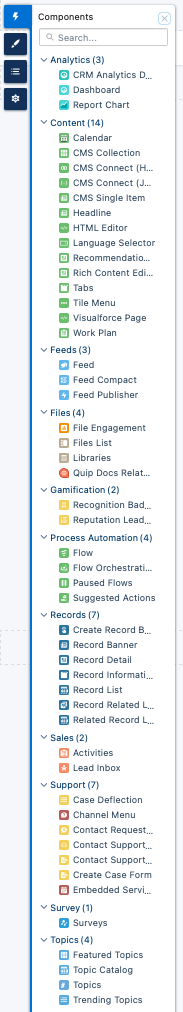
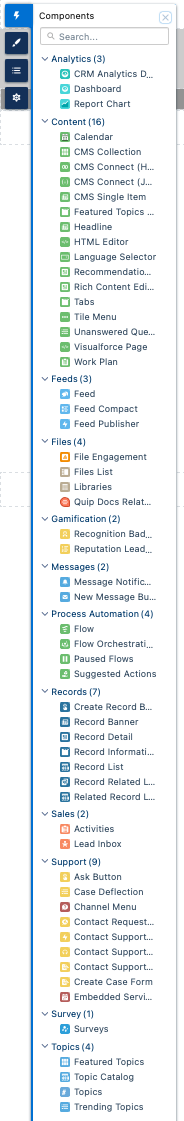
GitBook: [#4] No subject

diff --git a/experience-cloud/which-components-are-available-in-which-templates.md b/experience-cloud/which-components-are-available-in-which-templates.md
@@ -16,5 +16,16 @@ Our company vision is to **be the authoritative reference point for environmenta
 
 ## LWR BYO build-your-own (7 components)
 
-****![](../.gitbook/assets/image.png)****
+![](<../.gitbook/assets/image (2).png>)
 
+## Customer Account (51 components)
+
+****![](<../.gitbook/assets/image (4).png>)****
+
+## **Help Center (32 components)**
+
+![](<../.gitbook/assets/image (3).png>)
+
+## Customer Service (62 components)
+
+![](../.gitbook/assets/image.png)
